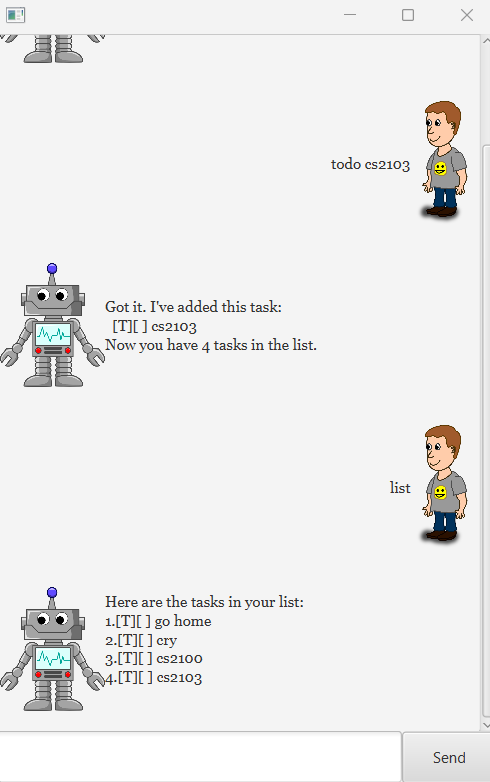
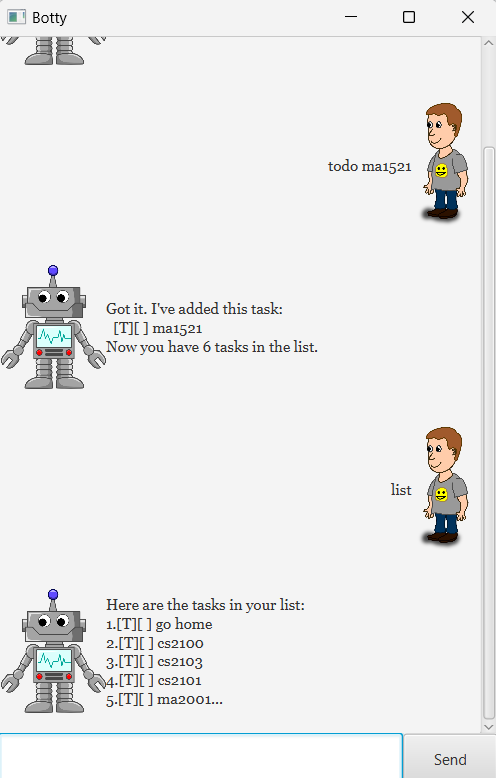
Change Ui.png

diff --git a/src/main/java/ui/Main.java b/src/main/java/ui/Main.java
@@ -23,6 +23,7 @@ public class Main extends Application {
             assert fxmlLoader != null : "Empty FxmlLoader";
             AnchorPane ap = fxmlLoader.load();
             Scene scene = new Scene(ap);
+            stage.setTitle("Botty");
             stage.setScene(scene);
             fxmlLoader.<MainWindow>getController().setBotty(botty);
             stage.show();
